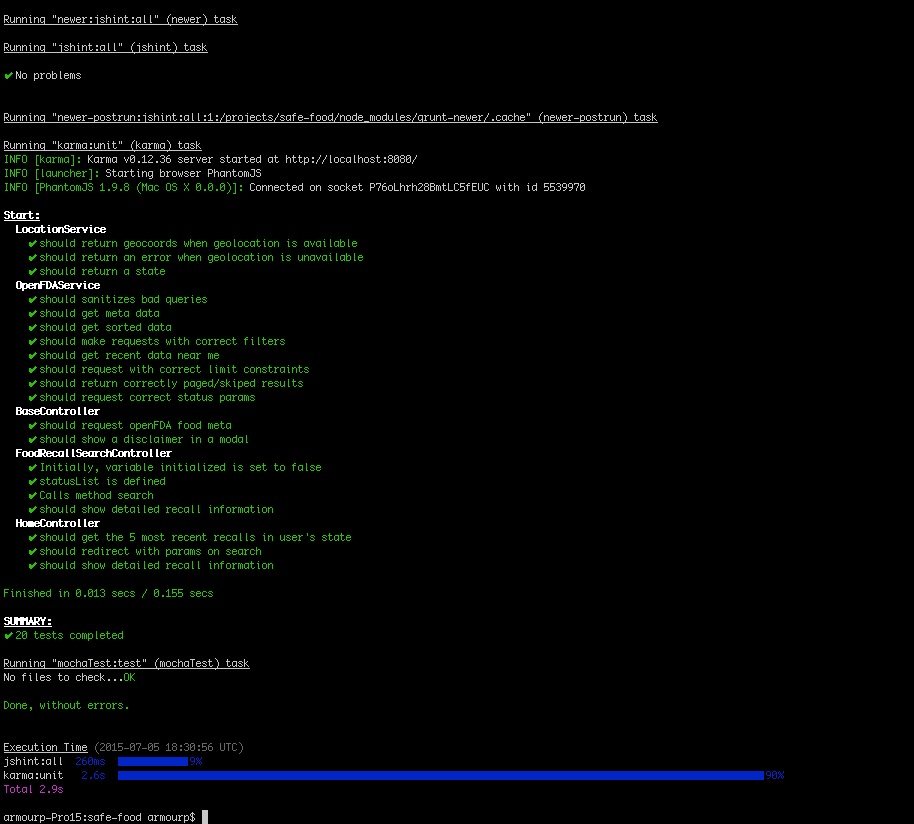
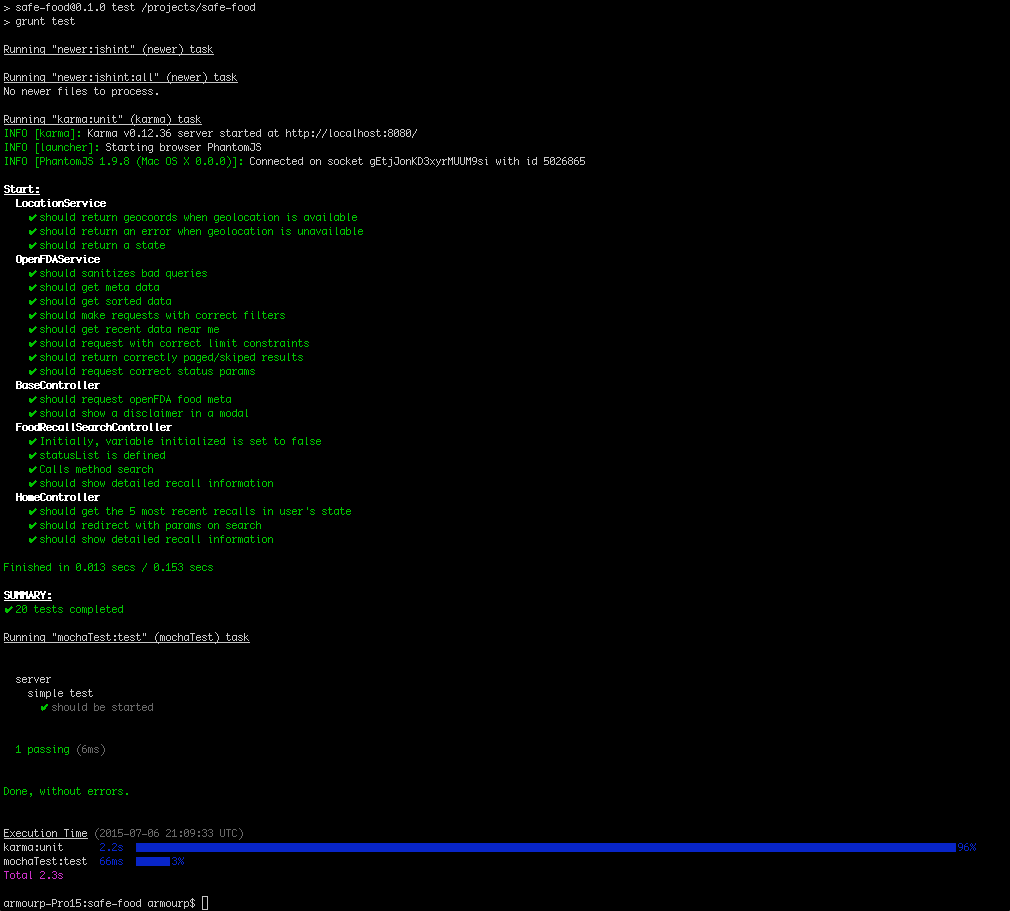
updated image of test results [skip ci]

diff --git a/server/test/simple-test.js b/server/test/simple-test.js
@@ -6,7 +6,7 @@ describe('server', function () {
   });
 
   describe('simple test', function(){
-    it('should respond true',function(done){
+    it('should be started',function(done){
       expect(200).to.equal(200);
       done();
     });
